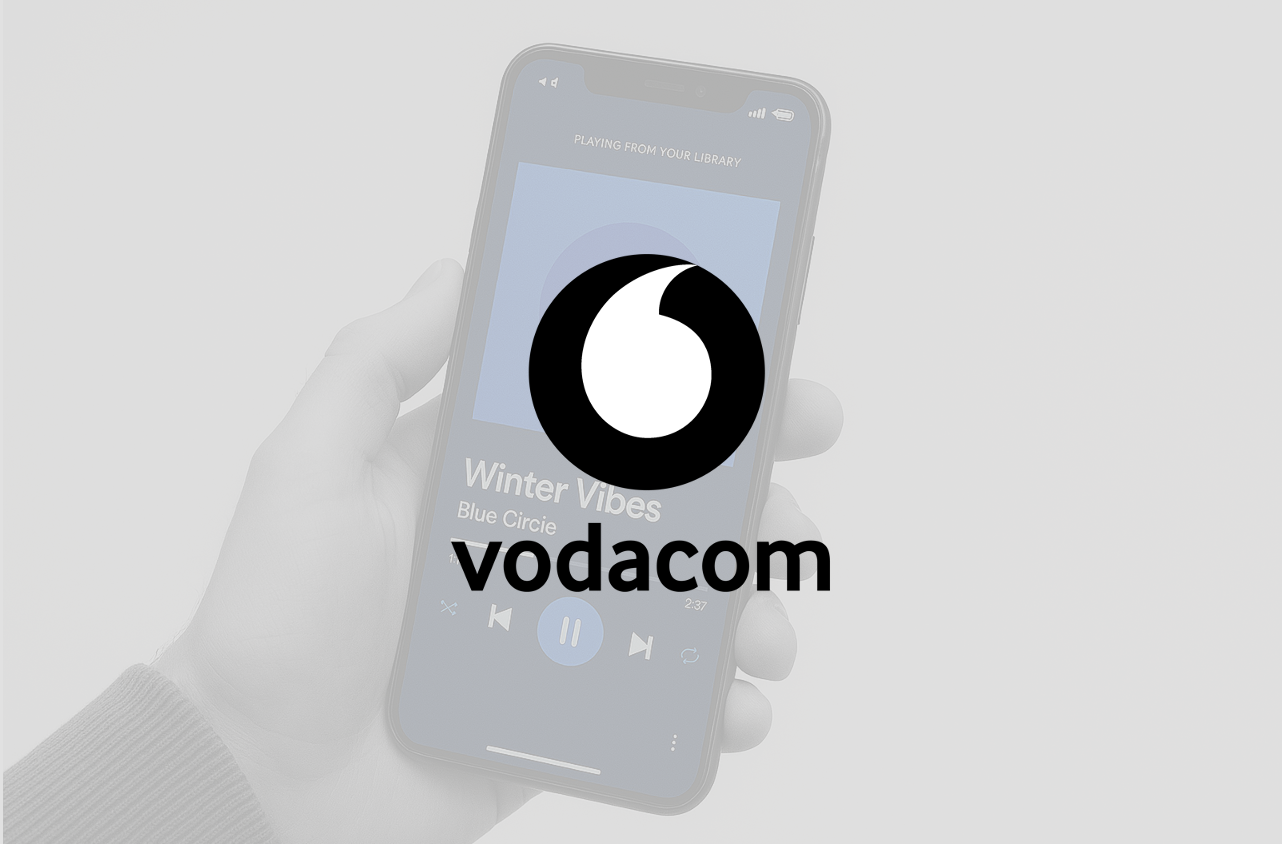
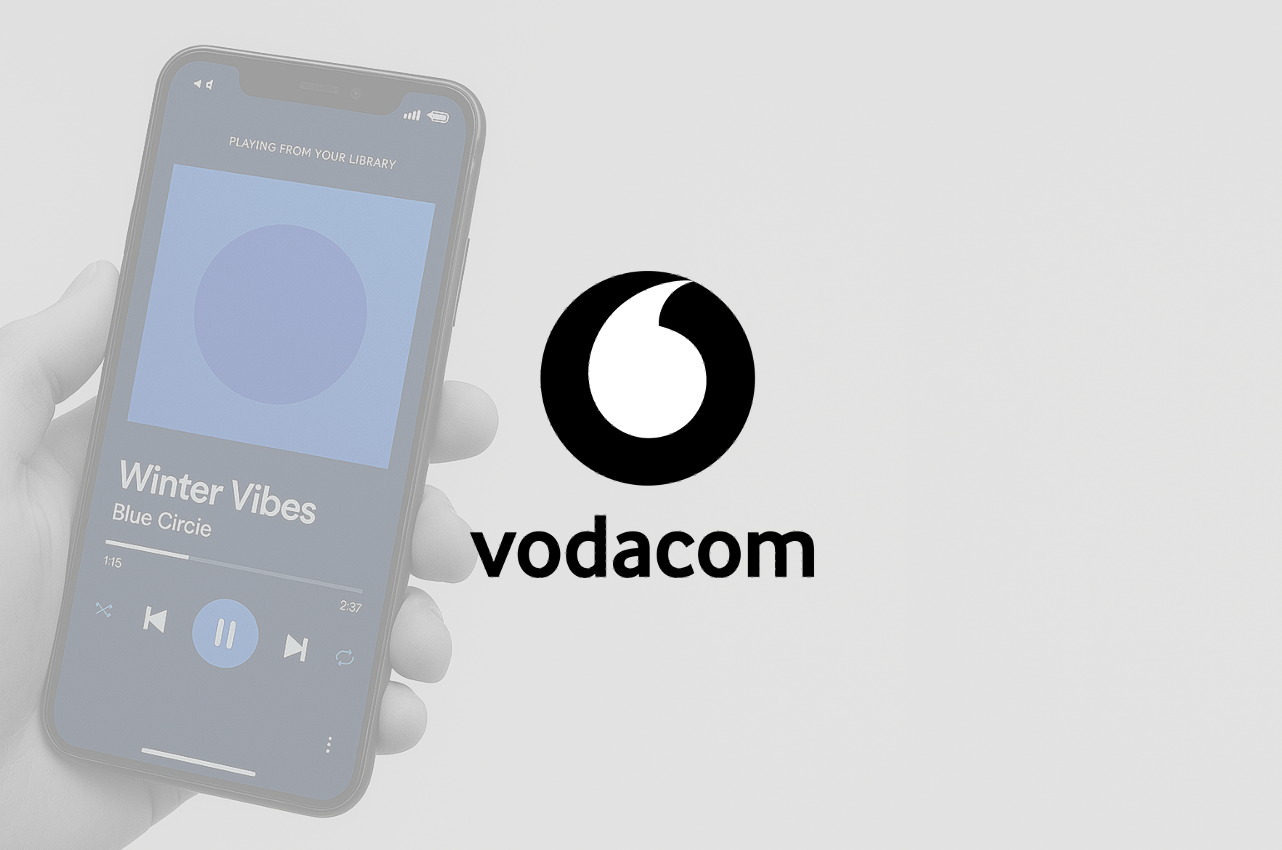
new images

diff --git a/src/components/Gallery.tsx b/src/components/Gallery.tsx
@@ -19,14 +19,14 @@ export const Gallery: React.FC = () => {
       description: "Guided a SaaS startup's successful entry into European markets.",
       category: "Growth Strategy",
       industry: "South Africa",
-      image: "https://raw.githubusercontent.com/peakxch/BHVRL/refs/heads/main/Media/SA.png"
+      image: "https://raw.githubusercontent.com/peakxch/BHVRL/refs/heads/main/Media/Vodacom2.png"
     },
     {
       title: "Organizational Restructure",
       description: "Redesigned operations for a manufacturing company, reducing costs by 25%.",
       category: "Operations",
       industry: "South Africa",
-      image: "https://raw.githubusercontent.com/peakxch/BHVRL/refs/heads/main/Media/SA.png"
+      image: "https://raw.githubusercontent.com/peakxch/BHVRL/refs/heads/main/Media/Vodacom3.png"
     },
     {
       title: "Innovation Framework",
